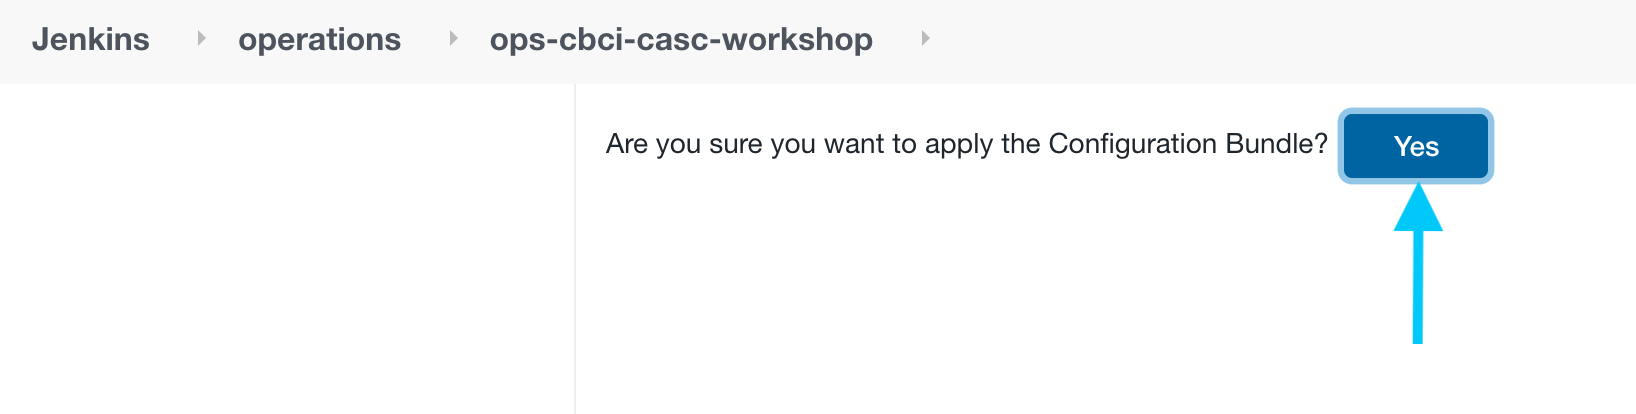
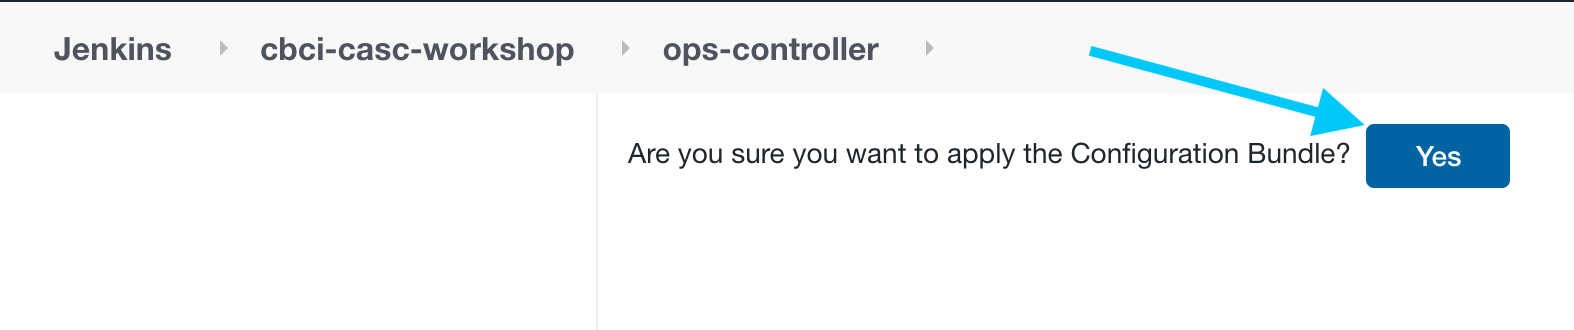
update bundle management lab to use GitHub Org project instead of Multibranch

Changed region(s): [[0.3736, 0.1515, 0.9651, 0.8485], [0.0, 0.0606, 0.5604, 0.1818], [0.0, 0.0, 1.0, 0.0303]]

diff --git a/labs/cloudbees-ci-casc/content/labs/bundle-management.md b/labs/cloudbees-ci-casc/content/labs/bundle-management.md
@@ -81,8 +81,8 @@ pipeline {
 10. After the job has completed successfully, navigate to the top level of your Ops controller, click on the **Manage Jenkins** link in the left menu, and then click on the **CloudBees Configuration as Code bundle** **System Configuration** item. ![CasC Configuration link](casc-config-link.png?width=50pc)
 11. On the **CloudBees Configuration as Code bundle** click on the **Bundle update** tab and you should see that there is a bundle update available. ![CasC bundle update](casc-bundle-update.png?width=50pc)
 12. Click on the **Reload Configuration** button and then on the next screen click the **Yes** button to apply the bundle update. ![CasC bundle apply](casc-bundle-apply.png?width=50pc)
-13. After the updated configuration bundle is finished being applied return to the top level of your Ops controller and you will see that the **configuration-automation** folder has been added back. ![CasC bundle apply](casc-bundle-apply.png?width=50pc)
-14. Besides being an example of configuration bundle `items` configuration, another reason we created a folder is because it is considered a best practices to keep all of your Jenkins jobs organized with folders - some of the advantages of folders include fine grained access control and credentials, folder specific environment variables, the ability to restrict job types that can be create and easily moving jobs across controllers. Therefore we will move the **configuration-bundles** Multibranch project into the **controller-automation** folder. To do so click on the **configuration-bundles** Multibranch project and then click the **Move/Copy/Promote** link in the left menu. ![Move multibranch job](move-multibranch-job.png?width=50pc)
+13. After the updated configuration bundle is finished being applied return to the top level of your Ops controller and you will see that the **configuration-automation** folder has been added back. ![CasC bundle updated](casc-bundle-updated.png?width=50pc)
+14. Besides being an example of configuration bundle `items` configuration, another reason we created a folder is because it is considered a best practices to keep all of your Jenkins jobs organized with folders - some of the advantages of folders include fine grained access control and credentials, folder specific environment variables, the ability to restrict job types that can be create and easily moving jobs across controllers. Therefore we will move your GitHub Organization project into the **controller-automation** folder. To do so click on your GitHub Organization project and then click the **Move/Copy/Promote** link in the left menu. ![Move multibranch job](move-github-org-job.png?width=50pc)
 15. On the **Move/Copy/Promote** place your mouse cursor in the **Destination** select box next to **ops-controller**, select **controller-automation** from the drop down and then click the **Move** button. ![Select folder and move](select-folder-move.png?width=50pc)
 16. Once the move has completed successfully click on the **Close** button. ![Move close](move-close.png?width=50pc)
 
